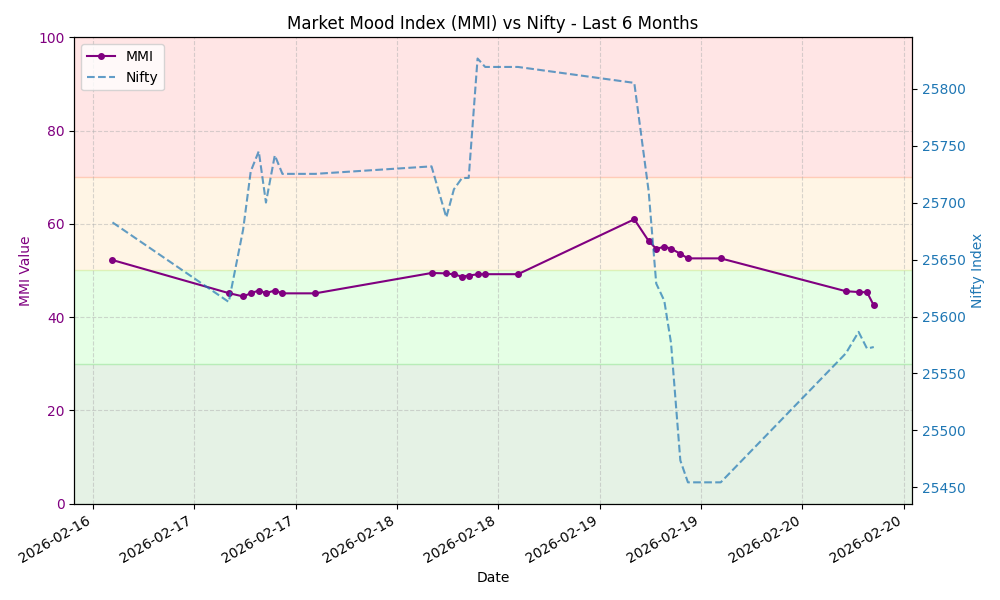
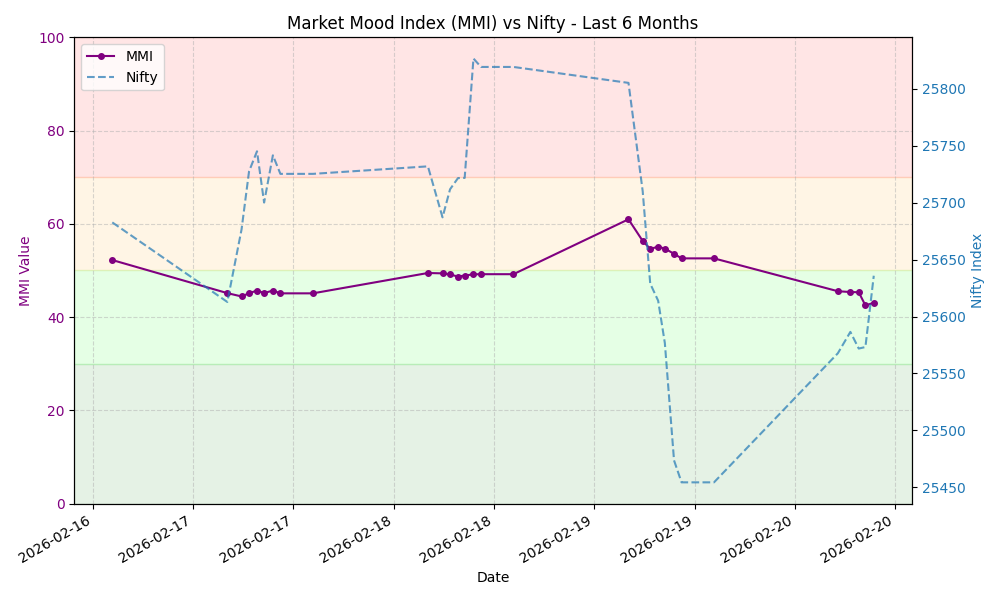
Update MMI data and chart

diff --git a/README.md b/README.md
@@ -7,8 +7,8 @@ This repository automatically fetches the MMI value, stores the history, and gen
 
 ## Latest MMI Value
 
-**42.50** - **Fear**
-<small>Last Updated: 2026-02-20 08:27 UTC</small>
+**43.06** - **Fear**
+<small>Last Updated: 2026-02-20 09:27 UTC</small>
 
 ## MMI Trend (Last 30 Days)
 
